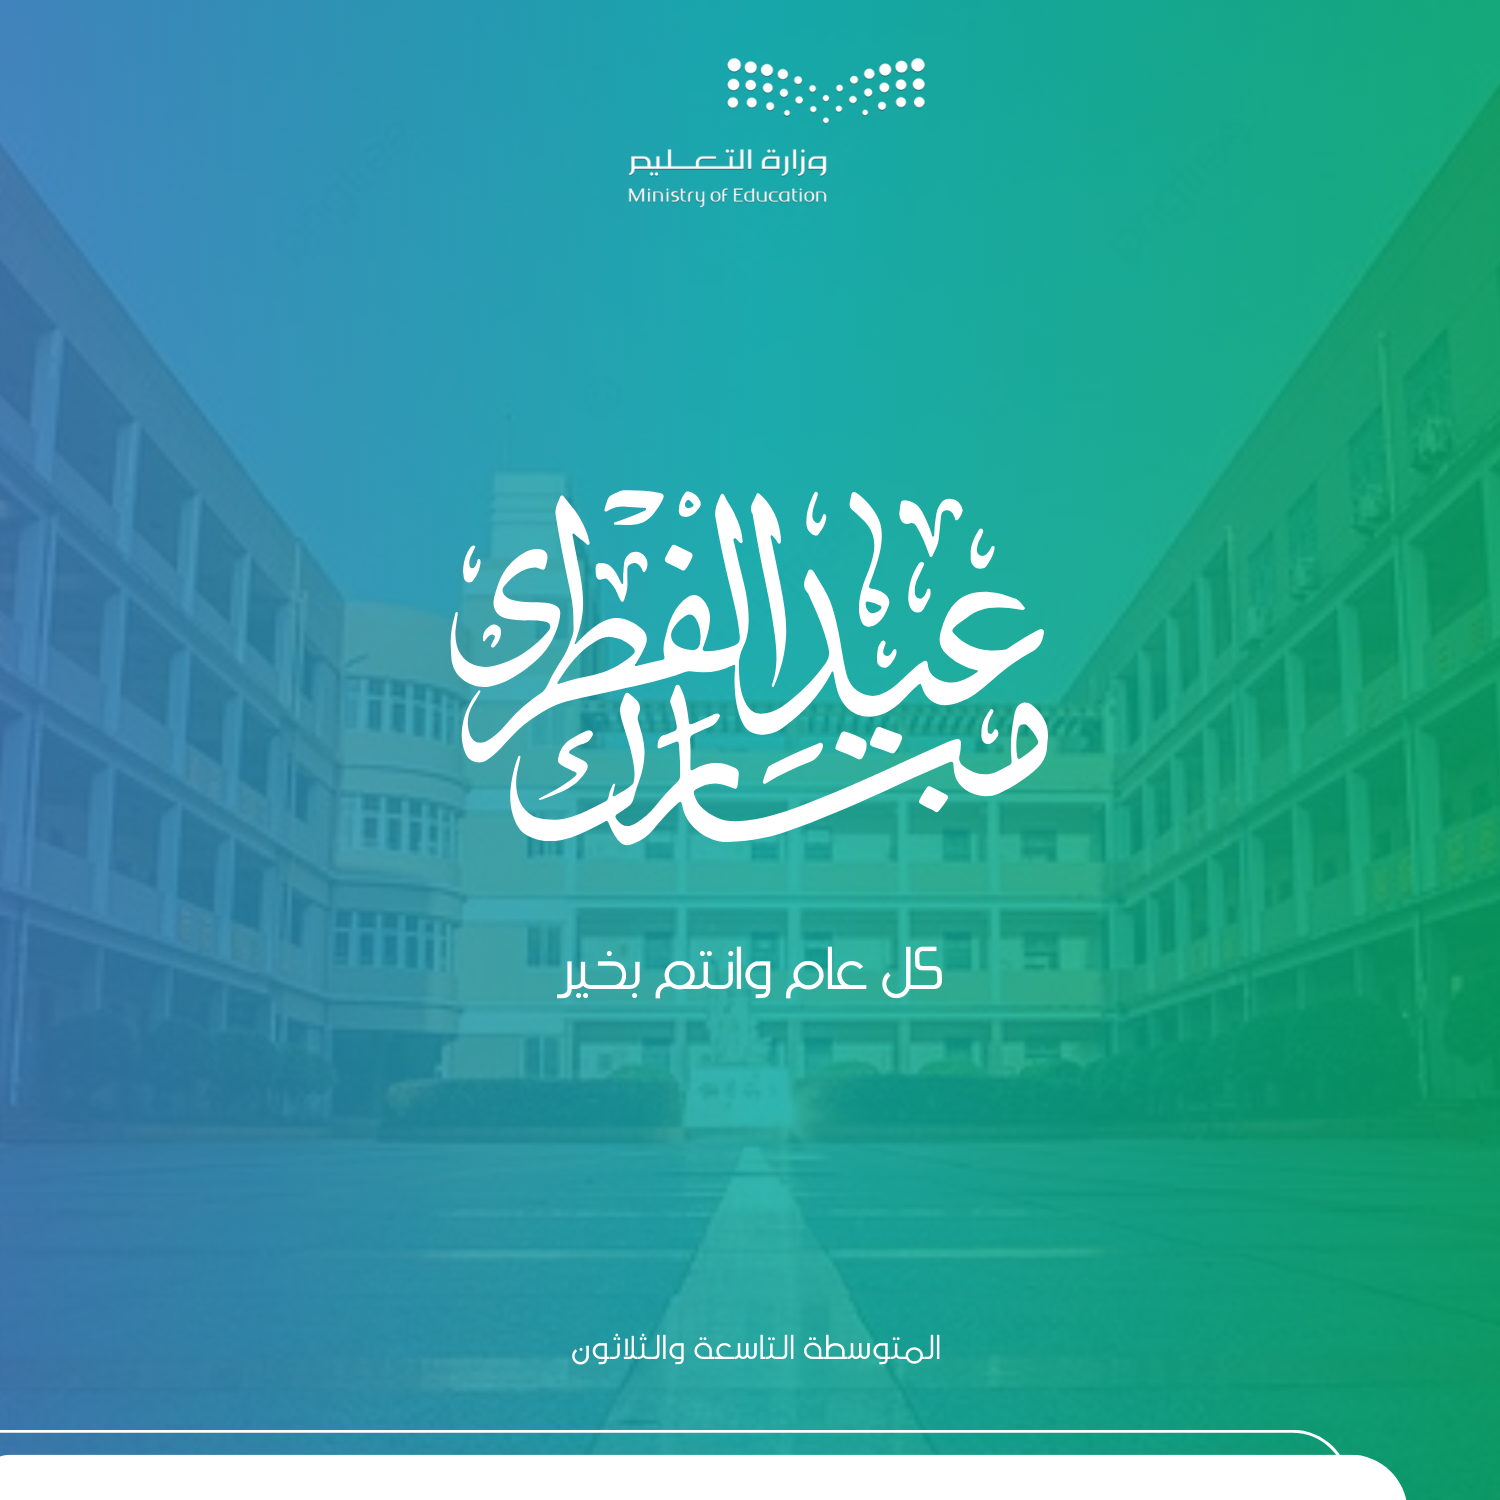
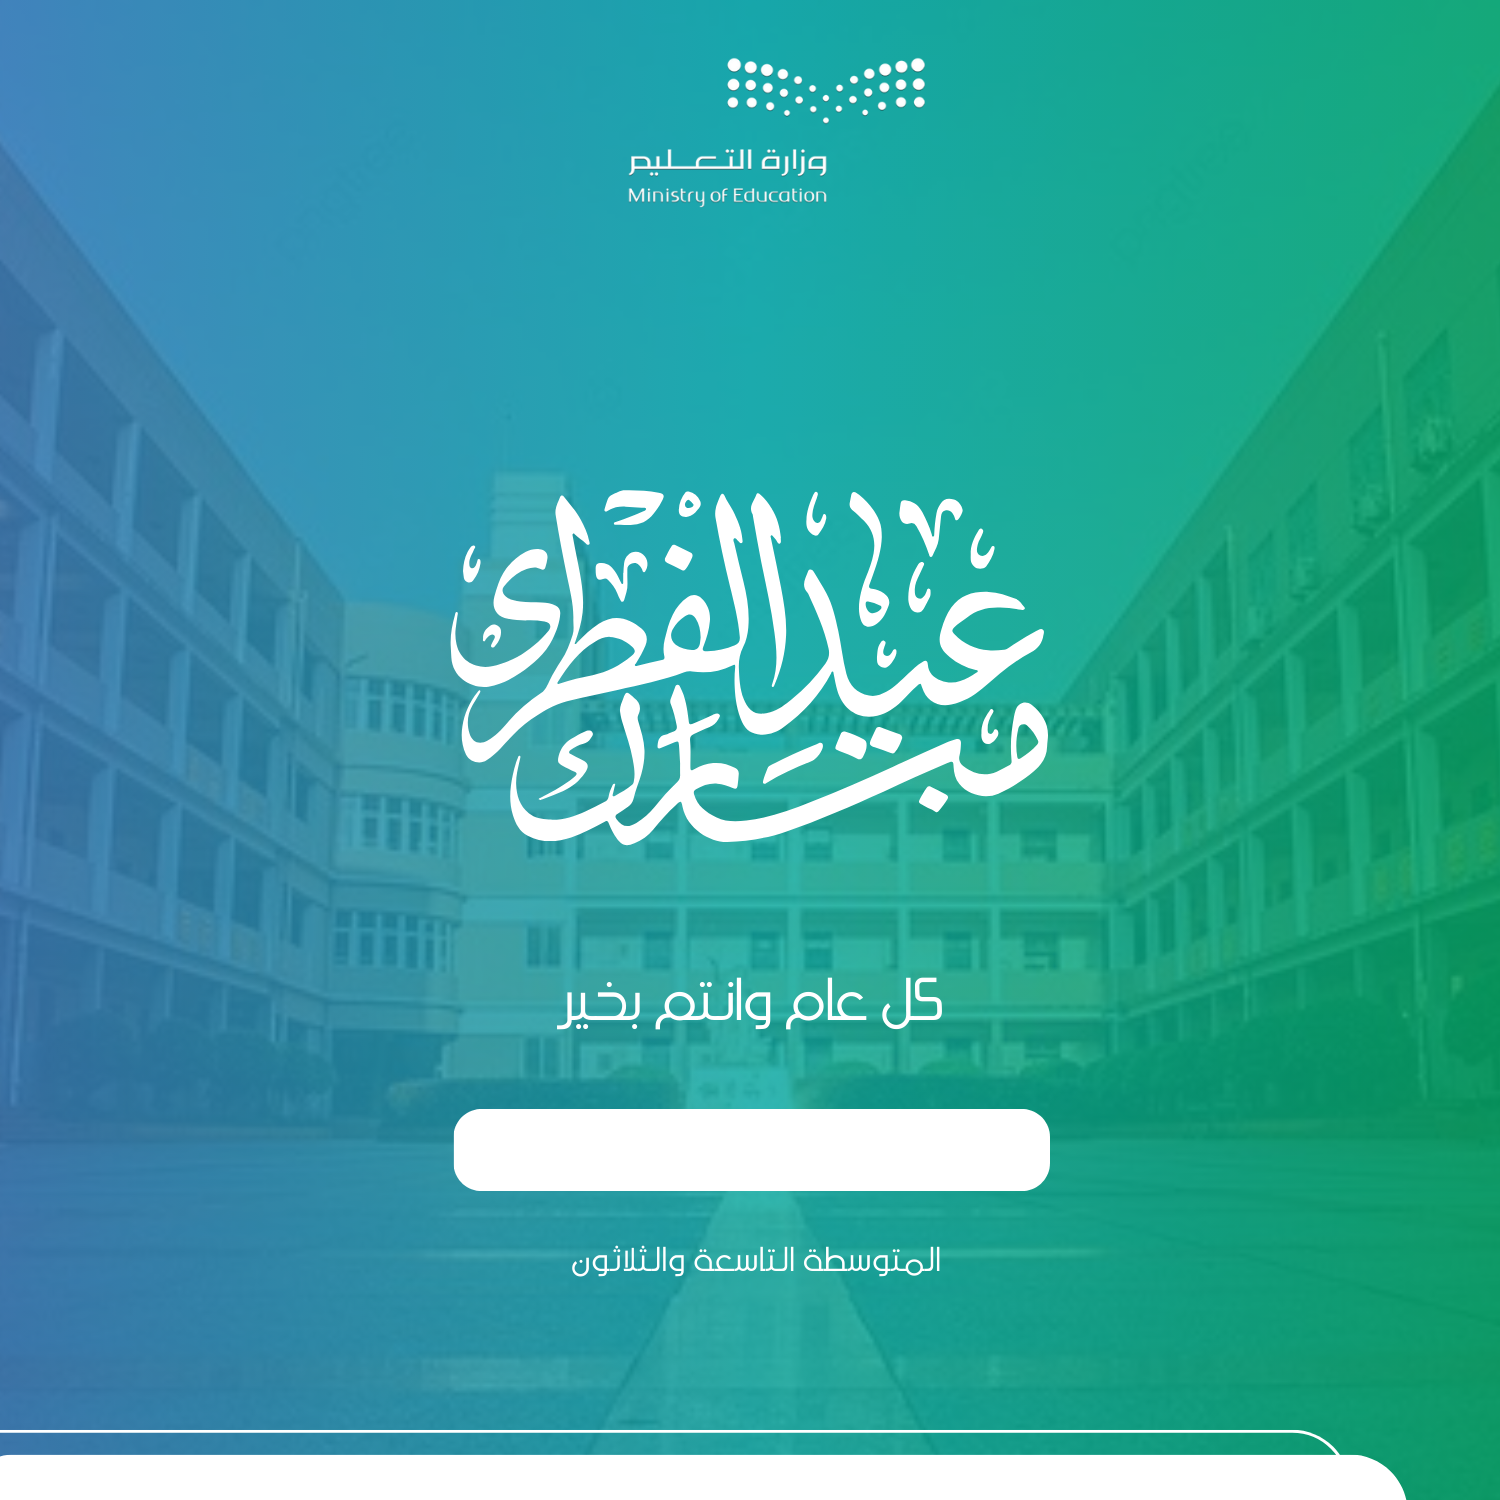
Add: small changes

diff --git a/app/components/Hero.tsx b/app/components/Hero.tsx
@@ -15,19 +15,19 @@ const Hero = () => {
         <div>
             <div className='bg-gradient-to-r from-[#3D7EB9] via-[#0DA9A6] to-[#07A869]'>
                 <Image src="/background_02.jpg" alt="Eid Mubarak" width={300} height={300} className='object-cover h-screen w-full opacity-25' />
-                <p className="text-white absolute top-[51%] left-1/2 transform -translate-x-1/2 -translate-y-1/2 text-center text-[10px]">
+                <p className="text-white absolute md:top-[49%] top-[51%] left-1/2 transform -translate-x-1/2 -translate-y-1/2 text-center md:text-[20px] text-[10px]">
                     المتوسطة التاسعة والثلاثون تهنئكم بقدوم
                 </p>
-                <p className="text-white font-[Amiri] absolute top-[60%] left-1/2 transform -translate-x-1/2 -translate-y-1/2 text-center font-bold text-2xl md:text-3xl">
+                <p className="text-white font-[Amiri] absolute top-[60%] left-1/2 transform -translate-x-1/2 -translate-y-1/2 text-center font-bold text-2xl md:text-4xl">
                     عِيْدُ الفِطْرِ المُبَارَكُ
                 </p>
-                <p className="text-white absolute top-[70%] left-1/2 transform -translate-x-1/2 -translate-y-1/2 text-center text-[10px]">
+                <p className="text-white absolute top-[70%] left-1/2 transform -translate-x-1/2 -translate-y-1/2 text-center md:text-[20px] text-[10px]">
                     سائلين المولى عز وجل أن  يعيده علينا وعليكم بالخير واليمن والبركات
                 </p>
 
                 <div
                     onClick={handleScrollClick}
-                    className="absolute top-[95%]  left-1/2 transform -translate-x-1/2 cursor-pointer animate-bounce"
+                    className="absolute md:top-[96%] top-[95%] left-1/2 transform -translate-x-1/2 cursor-pointer animate-bounce"
                 >
                     <svg
                         xmlns="http://www.w3.org/2000/svg"
@@ -35,7 +35,7 @@ const Hero = () => {
                         viewBox="0 0 24 24"
                         strokeWidth={2}
                         stroke="currentColor"
-                        className="w-3 h-3 text-white "
+                        className=" w-3 h-3 md:w-4 md:h-4 text-white "
                     >
                         <path
                             strokeLinecap="round"
@@ -49,7 +49,7 @@ const Hero = () => {
                         viewBox="0 0 24 24"
                         strokeWidth={2}
                         stroke="currentColor"
-                        className="w-3 h-3 text-white "
+                        className=" w-3 h-3 md:w-4 md:h-4 text-white "
                     >
                         <path
                             strokeLinecap="round"

diff --git a/app/components/Cards.tsx b/app/components/Cards.tsx
@@ -10,9 +10,9 @@ const Cards = () => {
     const [isModalOpen, setIsModalOpen] = useState<boolean>(false);
 
     const cardStyles = {
-        card1: { image: card1, position: { x: 750, y: 1190 }, color: 'white' },
-        card2: { image: card2, position: { x: 1000, y: 1490 }, color: 'white' },
-        card3: { image: card3, position: { x: 1000, y: 1398 }, color: 'white' },
+        card1: { image: card1, position: { x: 750, y: 1160 }, color: '#15445A' },
+        card2: { image: card2, position: { x: 750, y: 1160 }, color: '#15445A' },
+        card3: { image: card3, position: { x: 750, y: 1050 }, color: 'white' },
     };
 
     const handleCardSelection = (cardKey: keyof typeof cardStyles) => {
@@ -71,7 +71,7 @@ const Cards = () => {
 
     return (
         <div>
-            <section className="grid grid-cols-1 sm:grid-cols-2 md:grid-cols-3 lg:grid-cols-4 gap-8 w-full max-w-6xl mx-auto p-5">
+            <section className="grid grid-cols-1 sm:grid-cols-2 md:grid-cols-3 lg:grid-cols-3 gap-8 w-full max-w-6xl mx-auto p-5 text-center">
                 {Object.entries(cardStyles).map(([key, { image }]) => (
                     <div key={key}>
                         <Image
@@ -79,7 +79,7 @@ const Cards = () => {
                             alt={`بطاقة تهنئة ${key}`}
                             width={400}
                             height={300}
-                            className="object-cover w-full  rounded-2xl shadow-md overflow-hidden hover:shadow-lg transition-all duration-300"
+                            className="object-cover w-full rounded-2xl shadow-md overflow-hidden hover:shadow-lg transition-all duration-300"
                         />
                         <div className="my-4 text-right">
                             <button

diff --git a/app/page.tsx b/app/page.tsx
@@ -16,7 +16,7 @@ export default function Home() {
       </div>
       <div className="bg-[#C1B48A] h-1.5"></div>
       <div className="p-5 bg-[#15445A]">
-        <p className="text-white text-center text-[10px] pb-6">
+        <p className="text-white text-center md:text-2xl text-[10px] pb-6 pt-3">
           اختر البطاقة التي تناسبك
         </p>
         <Cards />
